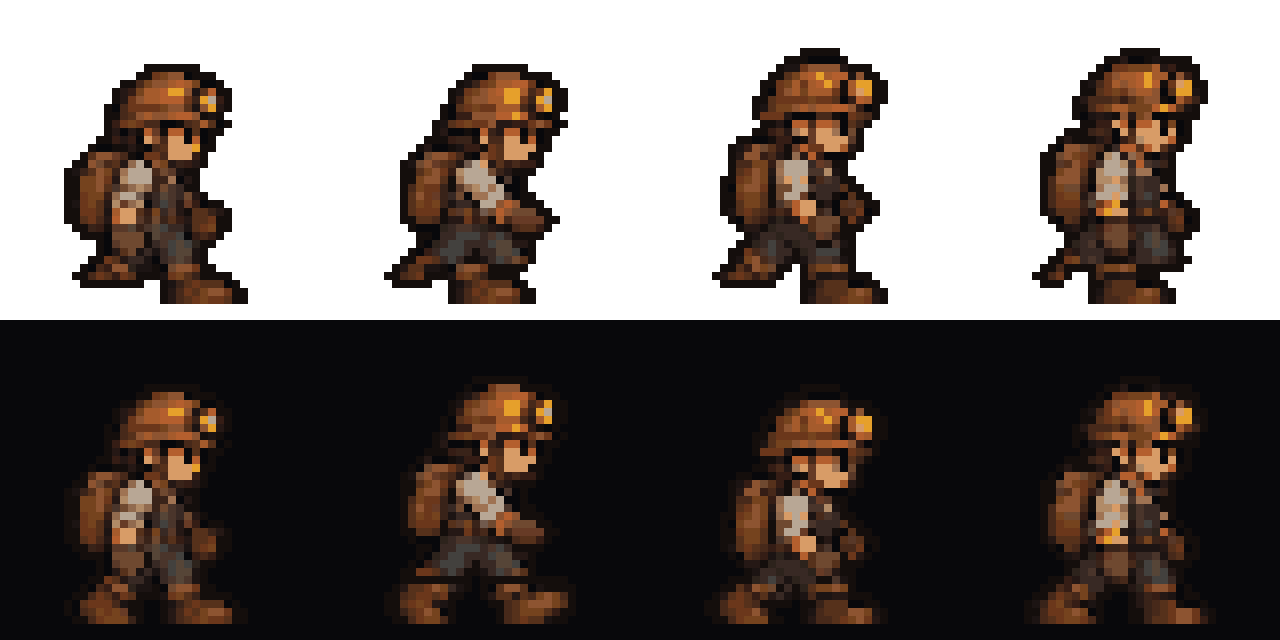
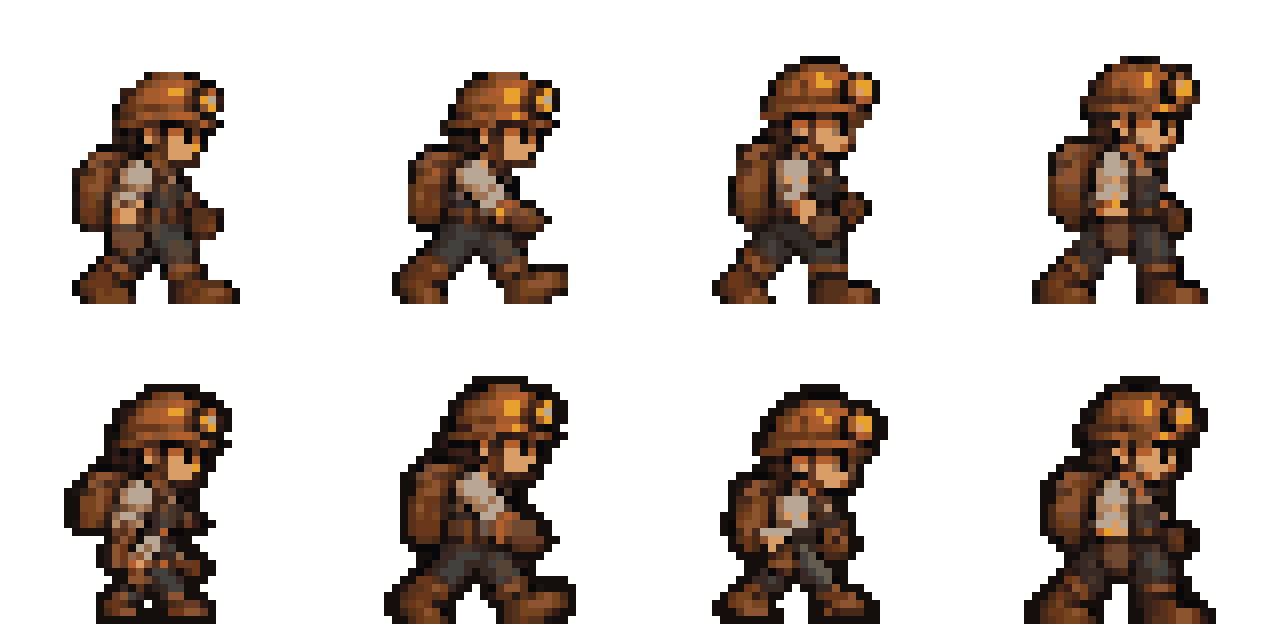
fix: use distinct opposite-leg walk poses

diff --git a/tests/assets.test.ts b/tests/assets.test.ts
@@ -34,6 +34,14 @@ function opaqueComponentCount(path: string, crop: string): number {
   return [...output.matchAll(/srgb\(255,255,255\)/g)].length;
 }
 
+function differenceMean(path: string, firstCrop: string, secondCrop: string, secondTransform: string[] = []): number {
+  return Number(execFileSync('magick', [
+    path, '-crop', firstCrop, '+repage',
+    '(', path, '-crop', secondCrop, '+repage', ...secondTransform, ')',
+    '-compose', 'difference', '-composite', '-threshold', '0', '-format', '%[fx:mean]', 'info:',
+  ], { encoding: 'utf8' }));
+}
+
 describe('D-001 assets', () => {
   it('matches every generated PNG to the generation specification dimensions', () => {
     const specification = JSON.parse(readFileSync(resolve(root, 'art/d001/generation-spec.json'), 'utf8')) as {
@@ -182,11 +190,46 @@ describe('D-001 assets', () => {
         expect(Number(difference)).toBe(0);
       }
       const helmet = resolve(runtime, 'player-helmet-atlas.png');
+      const boots = resolve(runtime, 'player-boots-atlas.png');
+      const walkSpecification = JSON.parse(readFileSync(resolve(root, 'art/d001/generation-spec.json'), 'utf8')) as {
+        playerMotion: {
+          walk: {
+            frameRoles: string[];
+            leftFootSource: string;
+            rightFootSource: string;
+            lowerBodySources: string[];
+            mirrorLowerBodyFrames: number[];
+          };
+        };
+      };
+      expect(walkSpecification.playerMotion.walk.frameRoles).toEqual([
+        'left-foot-forward', 'side-upper-body-up', 'right-foot-forward', 'side-upper-body-up',
+      ]);
+      expect(walkSpecification.playerMotion.walk.lowerBodySources).toEqual([
+        'generated-left-foot', 'source-frame-1', 'generated-right-foot', 'source-frame-3',
+      ]);
+      expect(walkSpecification.playerMotion.walk.mirrorLowerBodyFrames).toEqual([]);
+      for (const sourceFile of [
+        walkSpecification.playerMotion.walk.leftFootSource,
+        walkSpecification.playerMotion.walk.rightFootSource,
+      ]) expect(readFileSync(resolve(root, 'art/d001/sources', sourceFile)).subarray(1, 4).toString()).toBe('PNG');
       for (const row of [1, 5]) {
         const contacts = [0, 1, 2, 3].map((frame) => contactXs(composite, frame, row));
         contacts.forEach((contact, frame) => expect(contact.length, `row ${row} frame ${frame} contact`).toBeGreaterThan(0));
         expect(contacts.every((contact) => contact.length > 0)).toBe(true);
         expect(new Set(contacts.map((contact) => contact.join(','))).size).toBeGreaterThan(1);
+        expect(contacts[0]!.join(',')).not.toBe(contacts[2]!.join(','));
+        expect(contacts[1]!.join(',')).not.toBe(contacts[3]!.join(','));
+        if (row === 1) {
+          expect(opaqueComponentCount(boots, '40x5+0+73'), 'walk frame 0 foot silhouette').toBe(1);
+          expect(opaqueComponentCount(boots, '40x5+80+73'), 'walk frame 2 foot silhouette').toBe(2);
+          expect(differenceMean(boots, '40x40+0+40', '40x40+80+40', ['-flop']))
+            .toBeGreaterThan(0.02);
+        }
+        for (const frame of [0, 1, 2, 3]) {
+          const [, height, , y] = opaqueBounds(composite, `40x40+${frame * 40}+${row * 40}`);
+          expect(y + height - 1, `row ${row} frame ${frame} contact`).toBe(37);
+        }
         const top = [0, 1, 2, 3].map((frame) => opaqueBounds(helmet, `40x40+${frame * 40}+${row * 40}`)[3]);
         expect(top[1]).toBe(top[0] - 1);
         expect(top[2]).toBe(top[0]);

diff --git a/tests/semanticRenderState.test.ts b/tests/semanticRenderState.test.ts
@@ -13,6 +13,7 @@ import {
   engineerClip,
   nodeVisualState,
   playerIdleFrame,
+  PLAYER_WALK_STRIDE_STEP,
   playerWalkFrame,
   porterClip,
 } from '../src/render/semanticRenderState';
@@ -53,12 +54,12 @@ describe('semantic render state', () => {
 
   it('derives Player walk and carry-walk frames from distance in both directions', () => {
     const right = playerWalkFrame(100, 1);
-    expect(playerWalkFrame(104, 1)).toBe((right + 1) % 4);
-    expect(playerWalkFrame(116, 1)).toBe(right);
+    expect(playerWalkFrame(100 + PLAYER_WALK_STRIDE_STEP, 1)).toBe((right + 1) % 4);
+    expect(playerWalkFrame(100 + PLAYER_WALK_STRIDE_STEP * 4, 1)).toBe(right);
 
     const left = playerWalkFrame(100, -1);
-    expect(playerWalkFrame(96, -1)).toBe((left + 1) % 4);
-    expect(playerWalkFrame(84, -1)).toBe(left);
+    expect(playerWalkFrame(100 - PLAYER_WALK_STRIDE_STEP, -1)).toBe((left + 1) % 4);
+    expect(playerWalkFrame(100 - PLAYER_WALK_STRIDE_STEP * 4, -1)).toBe(left);
 
     const state = createGameState(9410);
     state.run.character.state = 'MOVING_TO_NODE';

diff --git a/src/render/semanticRenderState.ts b/src/render/semanticRenderState.ts
@@ -71,7 +71,7 @@ const CLIP_FRAMES: Record<CharacterClip, number> = {
   load: 4,
 };
 
-export const PLAYER_WALK_STRIDE_STEP = 4;
+export const PLAYER_WALK_STRIDE_STEP = 6;
 export const PLAYER_IDLE_CYCLE_MS = 1600;
 export const PLAYER_IDLE_ACTIVE_MS = 1200;
 export const D001_VISUAL_GROUND_OFFSET = 13;
